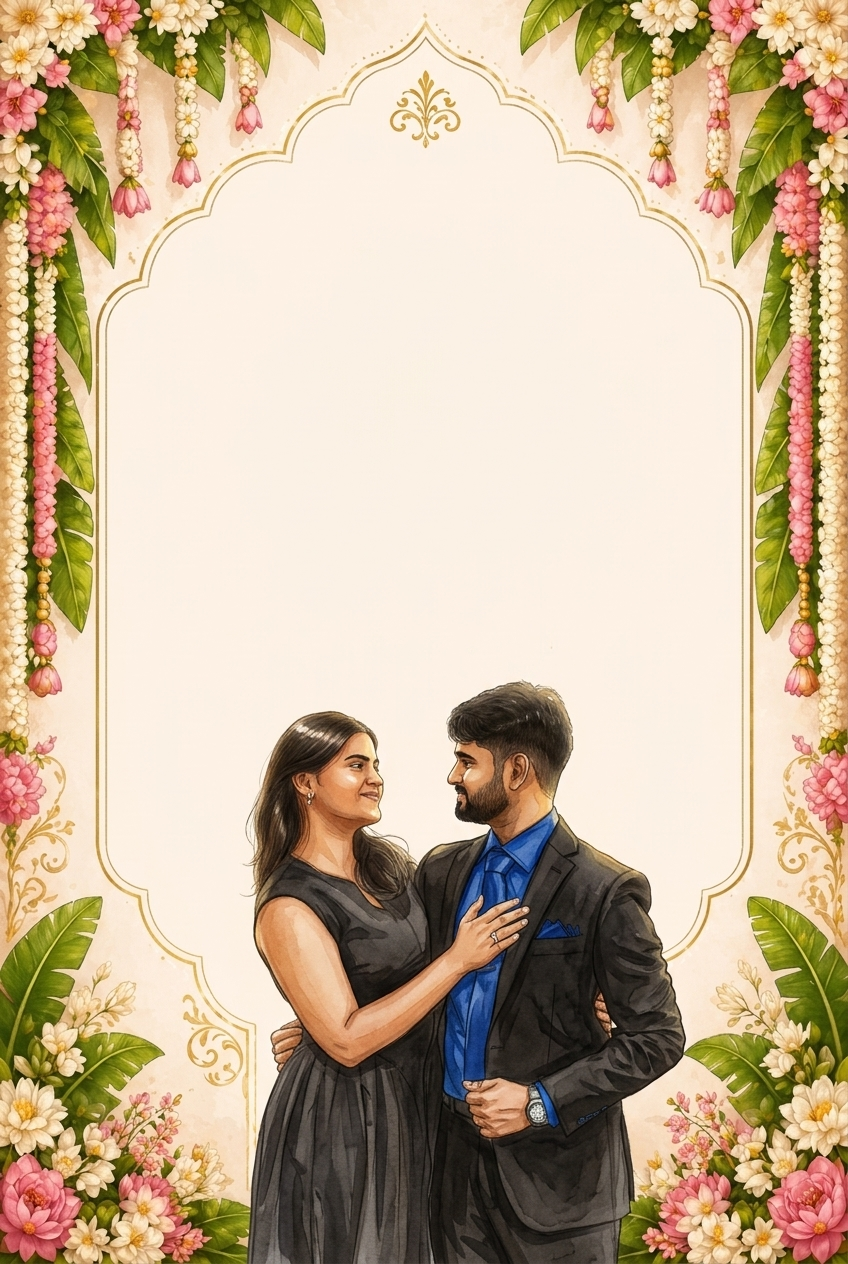
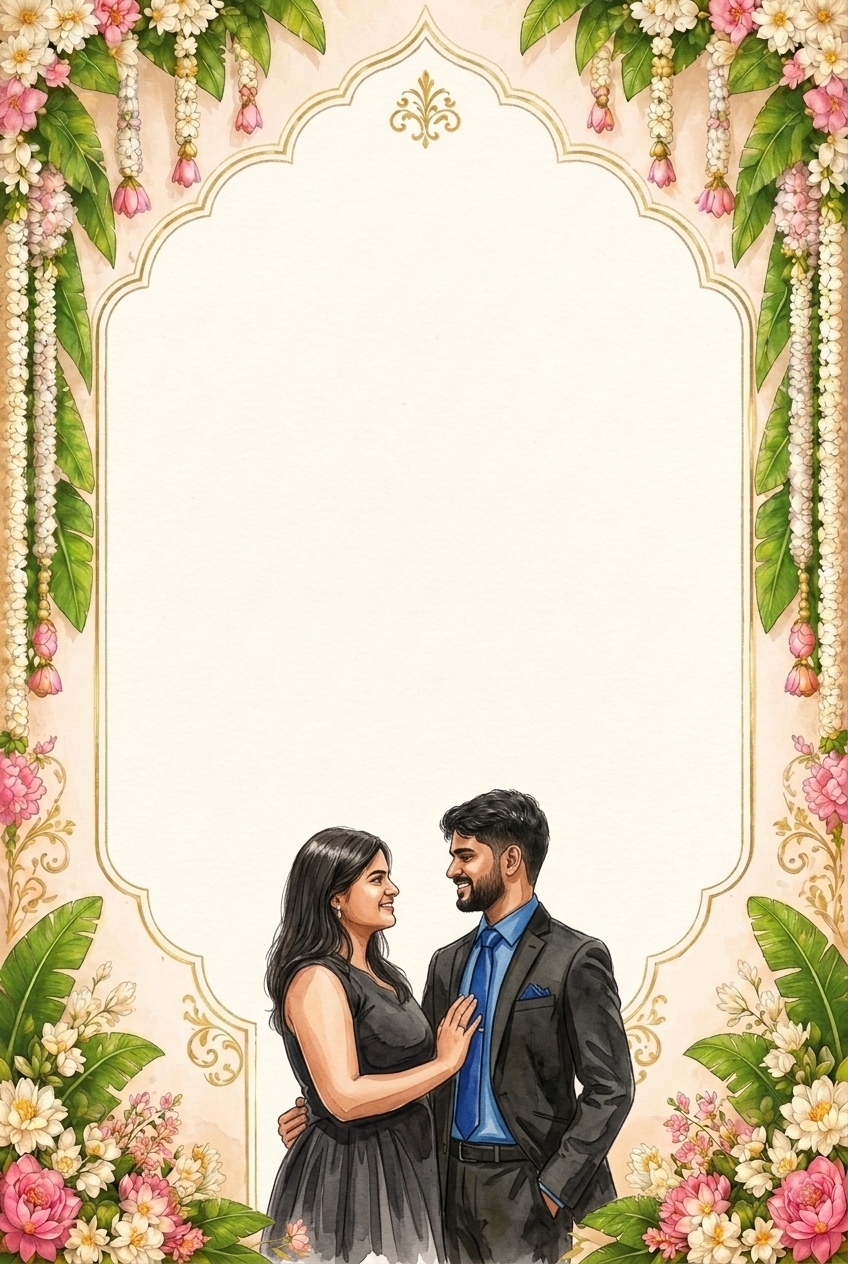
Use first proposal couple sketch on Page 2 and remove Traditional Muhurtham option

diff --git a/src/components/IntroductionSection.jsx b/src/components/IntroductionSection.jsx
@@ -34,12 +34,6 @@ const ARCH_ILLUSTRATION_MODES = [
     src: '/images/page2-arch-kneeling-proposal.jpg',
     alt: 'Watercolor illustration of Vishnu Priyan kneeling on one knee proposing to Noviya inside a floral gold temple arch',
   },
-  {
-    id: 'traditional',
-    label: 'Traditional Muhurtham',
-    src: '/images/page2-arch-traditional-likeness.jpg',
-    alt: 'Watercolor illustration of Vishnu Priyan and Noviya in traditional Tamil wedding attire inside a floral gold temple arch',
-  },
 ]
 
 export function IntroductionSection() {
